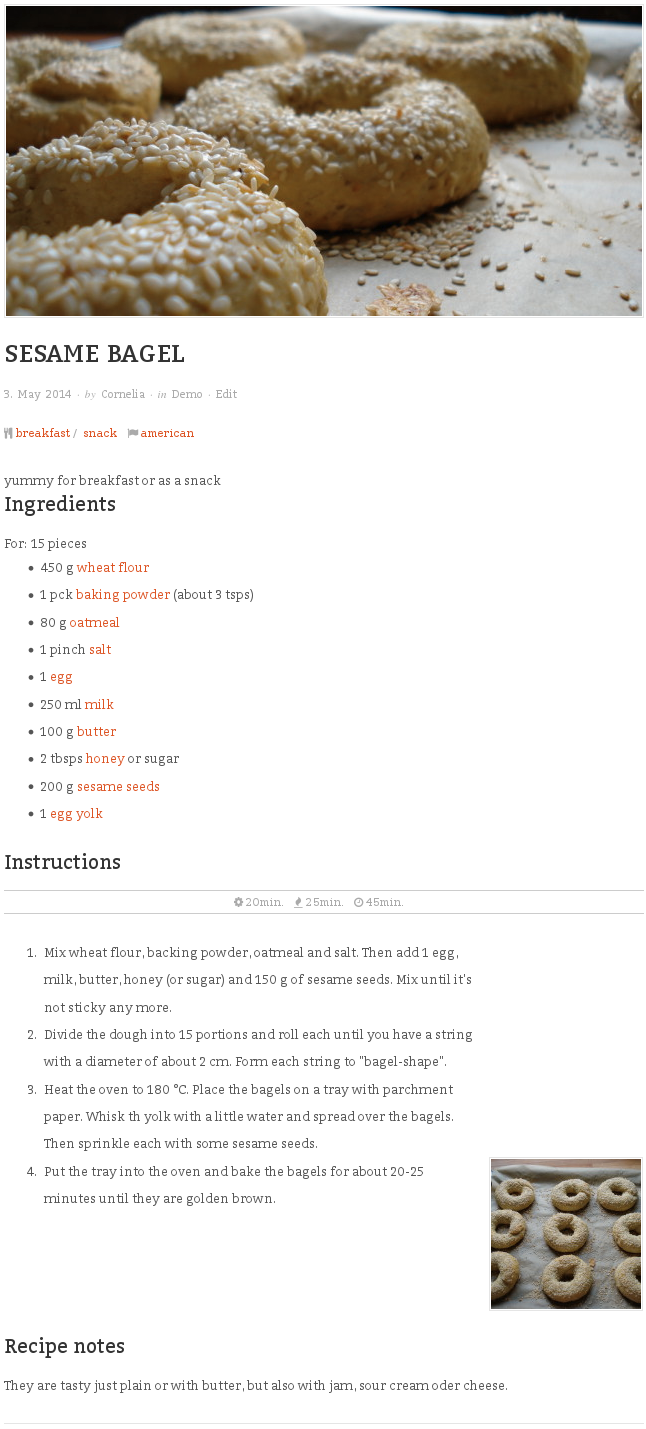
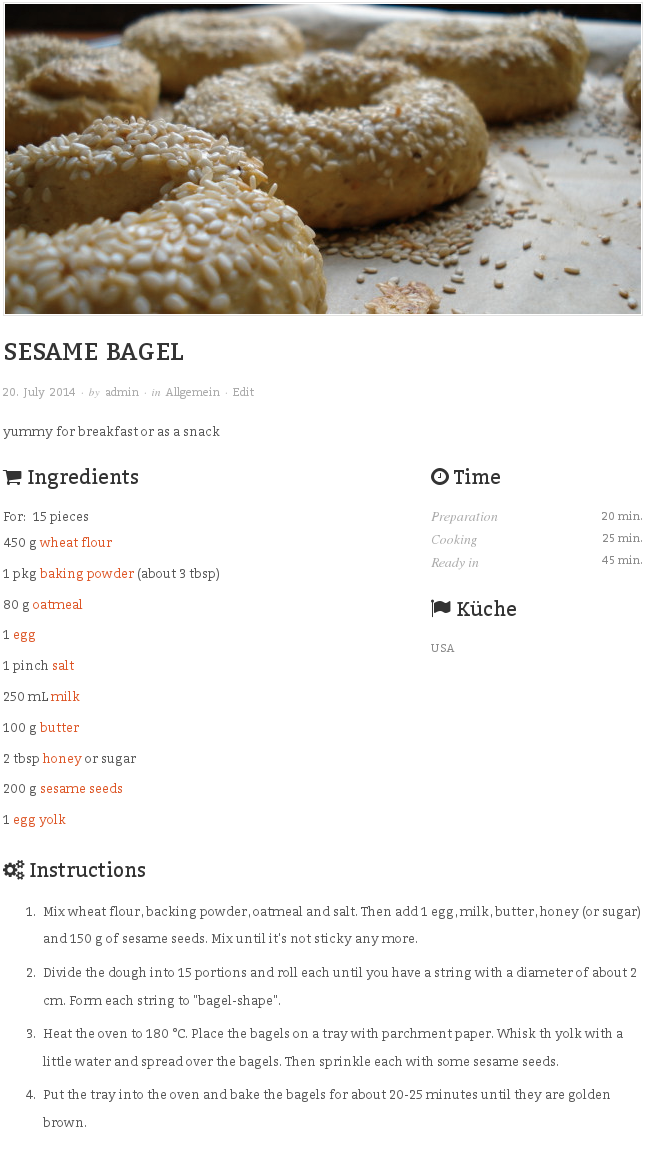
Added screenshot for template rpr2column
git-svn-id: http://plugins.svn.wordpress.org/recipepress-reloaded/trunk@951880 b8457f37-d9ea-0310-8a92-e5e31aec5664

diff --git a/templates/rpr_2column/public.css b/templates/rpr_2column/public.css
@@ -1,6 +1,8 @@
 @CHARSET "UTF-8";
 
-
+.rpr-clear{
+	clear:both;
+}
 
 /* hide some information*/
 .hidden, .rpr_hidden{
@@ -66,6 +68,8 @@ ol.recipe-instructions{
     vertical-align:top!important;
     }
 ol.recipe-instructions li{
+	list-style:decimal;
+	margin:0 0 0.5em 0;
     vertical-align:top!important;
     clear:both;
    }
@@ -86,4 +90,8 @@ ol.recipe-instructions li a{
 
 span.print-link{
 	float:right;
+}
+
+i.rpr_cuisine:before{
+	content:"\f024";
 }

diff --git a/css/rpr_public.css b/css/rpr_public.css
@@ -1,14 +1,14 @@
 @CHARSET "UTF-8";
 
-@CHARSET "UTF-8";
-
-
 
 /* hide some information*/
 .hidden, .rpr_hidden{
     display:none!important;
 }
 
+.rpr-clear{
+	clear:both;
+}
 .rpr-container{
     vertical-align:top!important;
 }

diff --git a/views/admin.php b/views/admin.php
@@ -149,7 +149,7 @@ $admin_menu = array(
    												'type' => 'radioimage',
    												'name' => 'rpr_template',
    												'label' => __( 'Choose a template', $this->pluginName ),
-   												'description' => sprintf (__( 'Templates define how your recipes will look like. Choose one of the installed templates or <a href="%s">create one yourself</a>.', $this->pluginName ) , 'http://rp-reloaded.net/templates/create' ),
+   												'description' => sprintf (__( 'Templates define how your recipes will look like. Choose one of the installed templates.', $this->pluginName), ''),// or <a href="%s">create one yourself</a>.', $this->pluginName ) , 'http://rp-reloaded.net/templates/create' ),
    												'item_max_height' => '300',
    												'item_max_width' => '300',
 									    		'items' => $templates,

diff --git a/php/class/rpr_core.php b/php/class/rpr_core.php
@@ -680,7 +680,7 @@ class RPR_Core extends RPReloaded {
             }
 
           add_filter('get_the_excerpt', array( $this, 'recipes_excerpt' ), 10);
-          $content = get_the_recipe_category_bar().wpautop($content).get_the_recipe_time_bar();              
+          $content = get_the_recipe_taxonomy_bar().wpautop($content).get_the_recipe_times();              
         }
         
         return $content;
